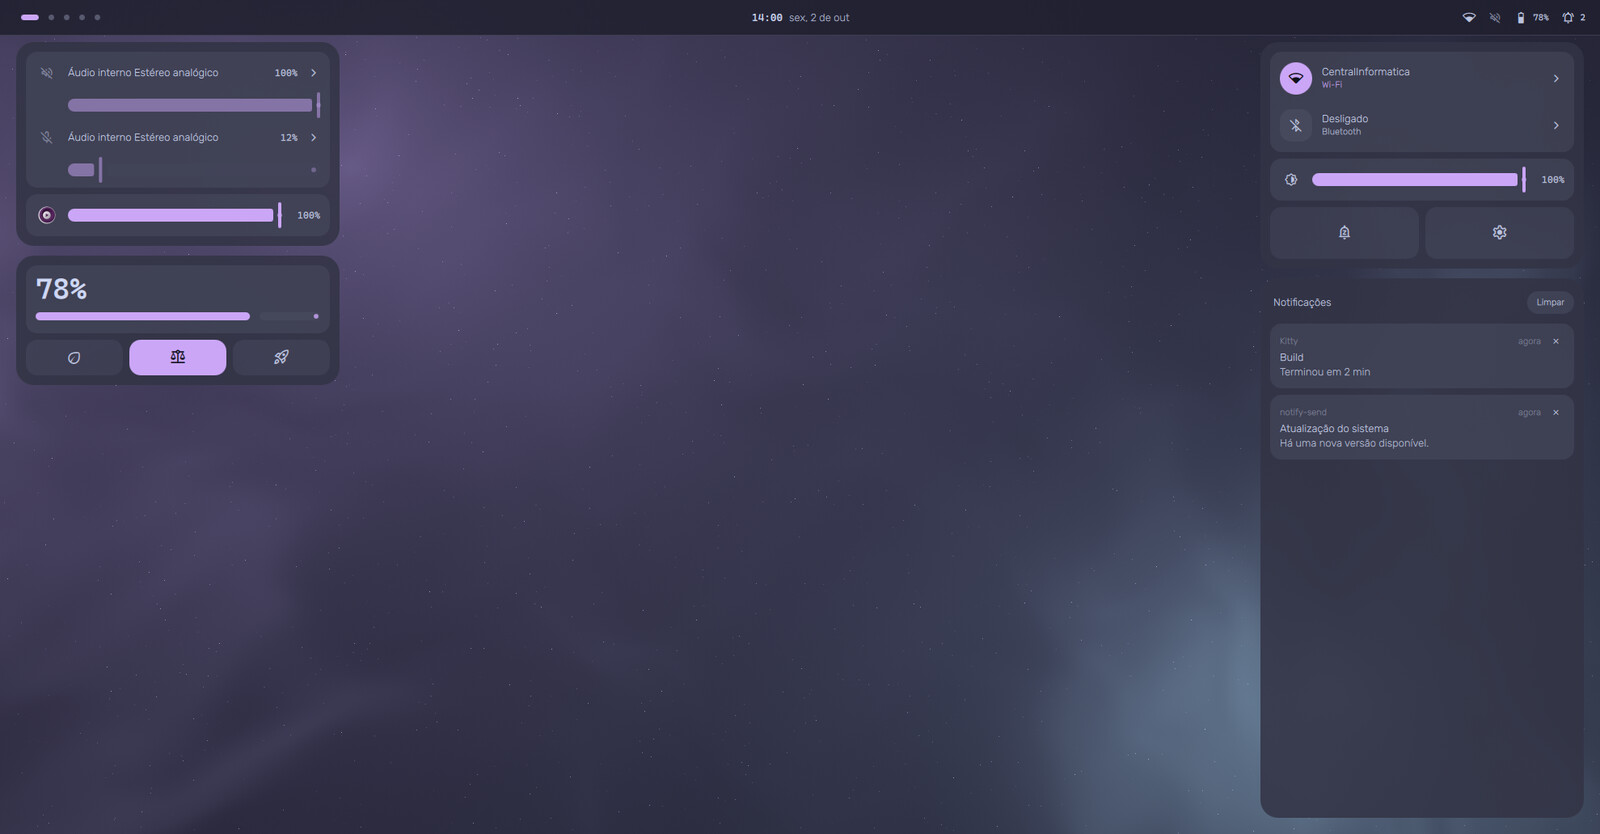
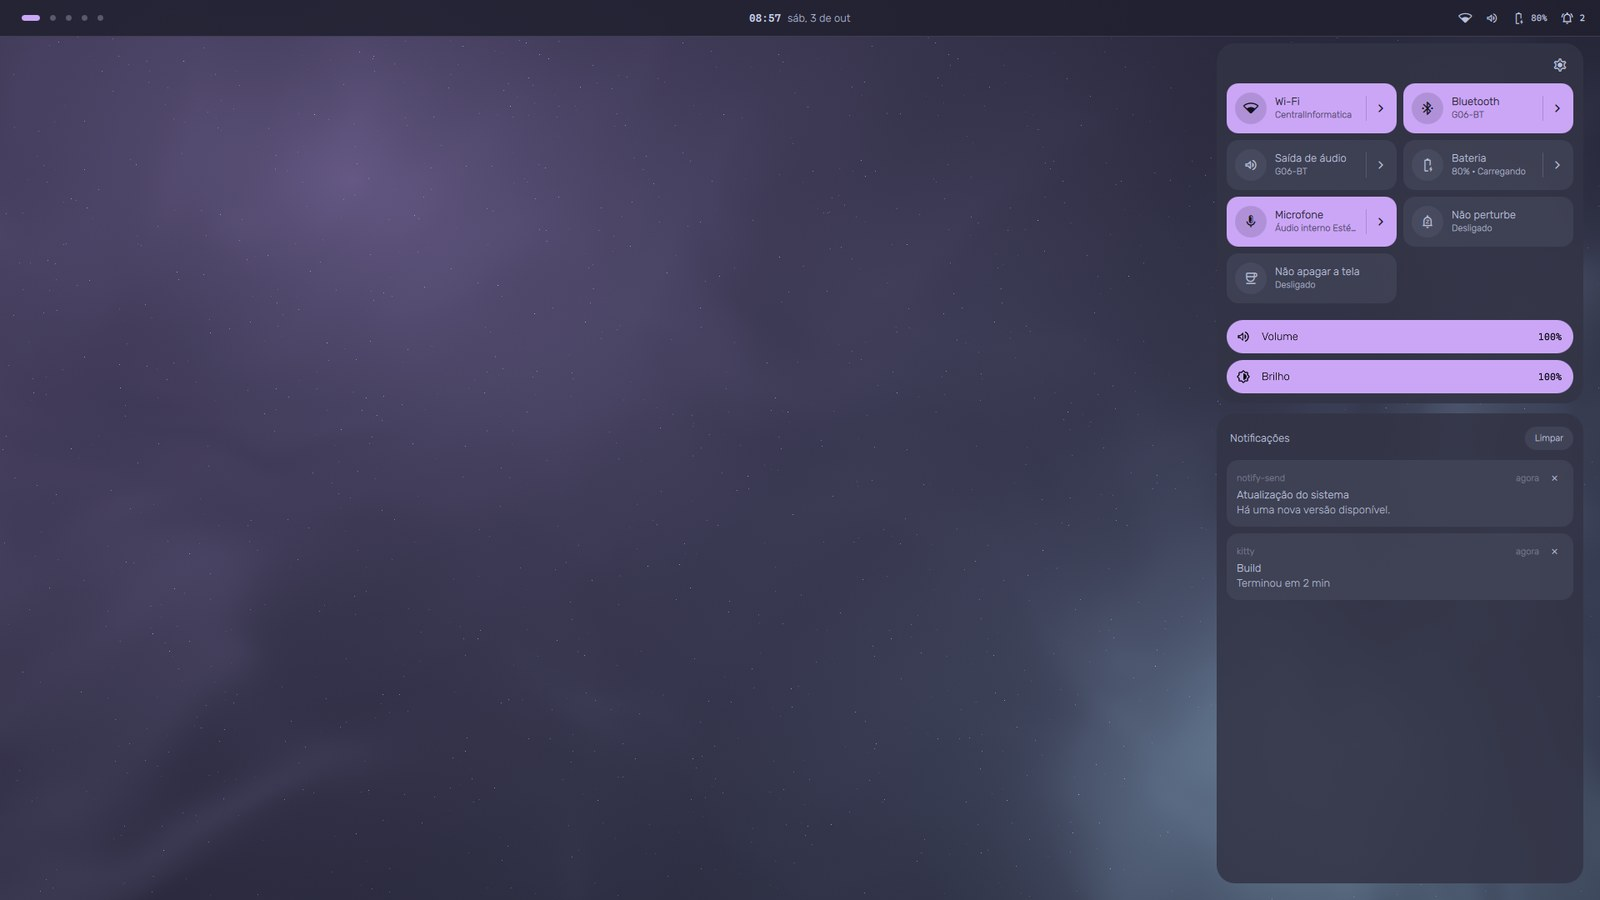
Central: captura, README, Proposta e Pendências com os dois painéis

diff --git a/README.md b/README.md
@@ -12,7 +12,7 @@ Barra, painel superior, central, launcher, notificações, tela de bloqueio e um
 - **Botões e teclas mapeáveis**: os botões extras do mouse e as teclas extras do teclado (F13–F24, macro, mídia) podem abrir painéis, controlar a mídia, trocar de workspace, **enviar um atalho de teclado** para a janela ou rodar um comando.
 - **Remapeamento real de teclas**, em qualquer programa e inclusive para modificadores (Caps Lock → Esc, Alt Gr → Super). O Lucerna gera o keymap, confere se ele compila e só então o entrega ao Hyprland.
 - **Monitores arrastando**: a disposição se monta num canvas com encaixe magnético. Cada monitor tem resolução, taxa, escala, rotação, espelhamento, VRR e 10 bits. Aplicar pede confirmação em todas as telas e, sem resposta em 15 s, volta ao anterior.
-- **Central em quatro painéis**: som (com o volume de cada app), energia, controles (Wi-Fi e Bluetooth num card, brilho e botões) e notificações, flutuando sobre a área de trabalho e abrindo juntos, cada um do seu lado.
+- **Central em dois painéis**: ações (tiles de Wi-Fi, Bluetooth, saída de áudio, bateria, microfone e os liga/desliga, com uma página por recurso, e os sliders de volume e brilho) e notificações, flutuando à direita sobre a área de trabalho e abrindo juntos.
 - **Os dez temas mais populares**: Catppuccin Mocha, Tokyo Night, Gruvbox Dark, Rosé Pine, Nord, Everforest, Kanagawa, Dracula, Matte Black e Decay Green, e as versões claras Catppuccin Latte e Rosé Pine Dawn, nas paletas oficiais, trocáveis ao vivo.
 - **Papel de parede animado e leve**: cada tema tem um efeito em shader que combina com ele (aurora, bokeh, brasas, luar, neve, vaga-lumes, ondas, névoa, chuva digital), nas cores do tema, a 30 ou 60 fps e em meia resolução. Ele pausa sozinho com tela cheia, tela bloqueada ou tela apagada. Cada tema pode trocar o seu por outro efeito, por uma imagem sua ou por um **vídeo ou GIF**. O vídeo é convertido uma vez para a resolução da tela, sem tarjas, quadros repetidos nem áudio, e toca decodificado pela GPU.
 - **Vidro de verdade**: o desfoque atrás dos painéis é do próprio Hyprland, e o tema ajusta também as bordas das janelas.
@@ -38,9 +38,9 @@ Visão geral, mídia com letra sincronizada, desempenho e clima. Desce de dentro
 
 ### Central
 
-Som e energia à esquerda, controles e notificações à direita, abertos juntos sobre a área de trabalho (`Super+C`). O ícone da barra escolhe o que já vem aberto: o de rede abre o card de controles na lista de redes.
+Ações em cima e notificações embaixo, na direita, abertos juntos sobre a área de trabalho (`Super+C`). Os tiles ligam e desligam no corpo e abrem a página do recurso na setinha. O ícone da barra escolhe o que já vem aberto: o de rede abre a página do Wi-Fi; o de som, a da saída de áudio; o de bateria, a da bateria.
 
-![Central: som, energia, controles e notificações](docs/screenshots/central.jpg)
+![Central: ações e notificações](docs/screenshots/central.jpg)
 
 ### Launcher, temas e barra
 
@@ -96,7 +96,7 @@ Três estilos, escolhidos em Configurações → Launcher. O **completo** tem bu
 | --- | --- |
 | **Barra** | Workspaces, hora e data, rede, som, bateria e notificações. Tem quatro estilos e pode ficar fixa ou esconder sozinha. Na área de trabalho vazia fica sempre à mostra, e aparece por um instante ao trocar de workspace. |
 | **Painel superior** | Visão geral (perfil, relógio, calendário, clima, recursos e mídia), mídia com letra sincronizada (LRCLIB) e pulso do áudio na capa, desempenho (CPU, GPU, memória, disco e rede) e clima (Open-Meteo). Abas reordenáveis e opção de abrir ao parar o mouse na hora. |
-| **Central** | Quatro painéis flutuantes que abrem juntos (`Super+C`, ou pelos ícones da barra): som (saída e entrada com troca de dispositivo e o volume de cada app com áudio aberto), energia (bateria, perfil de energia e a bateria dos dispositivos Bluetooth), controles (Wi-Fi e Bluetooth num card que vira a lista de redes, com senha, ou de dispositivos, para parear; o brilho da tela em foco; luz noturna, não perturbe, não apagar a tela e configurações) e notificações. Com porcentagem em cada volume, no brilho e na bateria. |
+| **Central** | Dois painéis flutuantes na direita que abrem juntos (`Super+C`, ou pelos ícones da barra): ações e notificações. As ações são tiles em duas colunas (Wi-Fi, Bluetooth, saída de áudio, bateria, microfone, luz noturna, não perturbe e não apagar a tela; cheios quando ligados), com uma página por recurso: a lista de redes, com senha; os dispositivos Bluetooth, para parear; as saídas e o volume de cada app com áudio aberto; o microfone e as entradas; a bateria, o perfil de energia e a bateria dos dispositivos Bluetooth. Embaixo, os sliders largos de volume e de brilho da tela em foco, com a porcentagem; a engrenagem abre as configurações. |
 | **Notificações** | Popups com ações, pausa no mouse e prazo ajustável, não perturbe e a lista na central. |
 | **Launcher** | Três estilos: compacto (busca e lista), completo (categorias de aplicativos, arquivos, documentos, imagens, músicas, vídeos e web, com favoritos, grade e detalhes: ações do app, descrição, versão e desenvolvedor) e tela cheia (gaveta de apps por categoria). Os apps mais abertos vêm primeiro, com os favoritos na frente. Em todos os estilos: clique direito num item para as opções, `Ctrl+F` fixa ou tira dos favoritos e `Ctrl+H` oculta; no compacto e na tela cheia, `/texto` busca arquivos e `?texto` pesquisa na web. A busca de arquivos usa o `fd` quando há, e, sem busca, mostra os recentes. |
 | **Área de transferência** | Histórico num painel próprio (`Super+V`): textos e imagens, busca, filtro, fixar e apagar. Escolher copia e cola na janela em foco (Ctrl+Shift+V nos terminais). Senhas marcadas pelos gerenciadores ficam de fora. |
@@ -105,8 +105,8 @@ Três estilos, escolhidos em Configurações → Launcher. O **completo** tem bu
 | **Tela de bloqueio** | Relógio e senha (PAM). |
 | **Energia** | Menu (bloquear, suspender, sair, reiniciar, desligar). Avisos de bateria baixa e crítica, ação no nível crítico com prazo para cancelar, troca de perfil na tomada e modo leve na bateria. |
 | **OSD** | Volume e brilho. |
-| **Ociosidade** | Escurece, desliga a tela, bloqueia e suspende depois de um tempo sem uso, com tempos próprios na tomada e na bateria, sem precisar do `hypridle`. Segura com mídia tocando, com app em tela cheia e com "Não apagar a tela" (nos botões da central, para apresentações). |
-| **Luz noturna** | Tela mais quente à noite, do pôr ao nascer do sol (pela cidade do clima, calculado sem rede), num horário fixo ou sempre, entrando e saindo aos poucos. Nos botões da central, liga ou desliga até a próxima virada. Usa o `hyprsunset`, que muda a cor no hardware, sem custo para a GPU. |
+| **Ociosidade** | Escurece, desliga a tela, bloqueia e suspende depois de um tempo sem uso, com tempos próprios na tomada e na bateria, sem precisar do `hypridle`. Segura com mídia tocando, com app em tela cheia e com "Não apagar a tela" (nos tiles da central, para apresentações). |
+| **Luz noturna** | Tela mais quente à noite, do pôr ao nascer do sol (pela cidade do clima, calculado sem rede), num horário fixo ou sempre, entrando e saindo aos poucos. Nos tiles da central, liga ou desliga até a próxima virada. Usa o `hyprsunset`, que muda a cor no hardware, sem custo para a GPU. |
 | **Papel de parede** | Imagem com transição na troca e efeito animado por cima (shader, a 30 ou 60 fps, no ritmo da tela, e em meia resolução). Pausa com app em tela cheia, tela bloqueada ou tela apagada, e opcionalmente com qualquer janela aberta; no automático, fica parado na bateria. Modo e origem por monitor. |
 | **Temas** | Doze prontos, nas paletas oficiais: Catppuccin Mocha (padrão), Tokyo Night, Gruvbox Dark, Rosé Pine, Nord, Everforest, Kanagawa, Dracula, Matte Black e Decay Green, e os claros Catppuccin Latte e Rosé Pine Dawn. Cada um vem com papel estático, efeito animado, fonte própria e bordas do Hyprland. Trocam ao vivo pelo seletor em carrossel (`Super+T`): as setas aplicam o tema do card central depois de uma breve espera, Enter mantém e Esc ou o clique fora desfazem. |
 
@@ -200,7 +200,7 @@ Tudo pode ser chamado de fora com `qs -c lucerna ipc call <alvo> <função> [arg
 | --- | --- |
 | `panels` | `open <nome>`, `toggle <nome>`, `dismiss <nome>` (fecha só esse), `close` (fecha todos), `get`. Nomes: `launcher`, `dashboard`, `central`, `settings`, `themes`, `power`, `clipboard`, `capture`, `overview` |
 | `dashboard` | `open <aba>` (`overview`, `media`, `performance`, `weather`), `toggle` |
-| `central` | `open <entrada>`, `toggle <entrada>` (`rede`, `bluetooth`, `som`, `notificacoes`, `energia`; `""` = o estado inicial), `close` |
+| `central` | `open <entrada>`, `toggle <entrada>` (`rede`, `bluetooth`, `som`, `energia`, `microfone` abrem a página do recurso; `notificacoes` e `""`, o estado inicial), `close` |
 | `settings` | `open <tópico>` (`appearance`, `wallpaper`, `displays`, `idle`, `nightlight`, `launcher`, `clipboard`, `capture`, `mouse`, `keyboard`, `glass`, `notifications`, `panels`, `bar`, `dashboard`, `power`, `shortcuts`, `about`) |
 | `notifications` | `clear`, `toggleDnd`, `count` |
 | `launcher` | `open <categoria> <busca>` (`apps`, `files`, `documents`, `images`, `music`, `videos`, `web`; a busca pode ser `""`), `toggle` |

diff --git a/Lucerna — Proposta.md b/Lucerna — Proposta.md
@@ -55,12 +55,12 @@ O Lucerna cresce por módulos, começando pelo essencial.
 | --- | --- |
 | Barra | Quatro estilos, escolhidos nas configurações: **faixa** (padrão, de ponta a ponta), **ilha** (só a hora; cresce para os lados com o mouse em cima), **pílula** (flutuante, tudo à mostra) e **três ilhas** (workspaces, hora e ações nos cantos). Workspaces, hora e data (abre o painel superior), rede, volume, bateria e notificações (abrem a central). Fixa por padrão, reservando o espaço; com auto-ocultar, aparece ao encostar o mouse no topo, ao trocar de workspace e na área de trabalho vazia (por monitor) |
 | Painel superior | Desce do topo: visão geral (usuário com atalhos para configurações e energia, relógio, calendário, recursos, mídia), mídia (capa com pulso do áudio, controles, letra sincronizada), desempenho (CPU, GPU, memória, disco, rede) e clima. Abas reordenáveis; pode ficar aberto por cima das configurações |
-| Central | Quatro painéis flutuantes que abrem juntos sobre a área de trabalho, sem escurecer: som (saída e entrada, com troca de dispositivo, e o volume de cada app com áudio aberto), energia (bateria, perfil de energia e a bateria dos dispositivos Bluetooth), controles (Wi-Fi e Bluetooth num card que vira a lista de redes ou de dispositivos, o brilho da tela em foco e os botões de luz noturna, não perturbe, não apagar a tela e configurações) e notificações. O ícone da barra escolhe o que já vem aberto |
+| Central | Dois painéis flutuantes na direita que abrem juntos sobre a área de trabalho, sem escurecer: ações em cima e notificações embaixo. As ações são tiles em duas colunas (Wi-Fi, Bluetooth, saída de áudio, bateria, microfone, luz noturna, não perturbe e não apagar a tela; o corpo liga e desliga, a setinha abre a página do recurso: redes, dispositivos, saídas e o volume de cada app com áudio aberto, entradas, bateria e perfil de energia) e os sliders de volume e brilho; a engrenagem abre as configurações. O ícone da barra escolhe a página que já vem aberta |
 | Launcher | Três estilos: **compacto** (padrão; busca e lista curta de apps e ações), **completo** (categorias de aplicativos, arquivos por tipo e web, favoritos, grade e detalhes do app: ações do `.desktop`, descrição, versão e desenvolvedor) e **tela cheia** (gaveta de apps por categoria). Apps ordenados por uso |
 | Configurações | Tópicos à esquerda e opções à direita: aparência, papel de parede, monitores, tela e ociosidade, luz noturna, mouse, teclado, área de transferência, captura de tela, transparência e desfoque, notificações, painéis, launcher, barra, painel superior, energia e bateria, atalhos e sobre |
 | Monitores | Disposição arrastando num canvas (encaixe nas bordas, sempre num bloco só) e, por monitor, resolução, taxa, escala, rotação, espelhamento, VRR e 10 bits. Aplicar pede confirmação em todas as telas e volta sozinho em 15 s. Um arranjo salvo por conjunto de monitores, reaplicado ao conectar. Opcionalmente gravado em `~/.config/hypr/lucerna-monitors.lua`, que o `hyprland.lua` inclui, para valer desde o login |
 | Mouse e teclado | Velocidade, aceleração, rolagem, touchpad e velocidade por mouse; layouts, repetição e opções do xkb. Botões extras do mouse e teclas extras mapeados para ações (painéis, mídia, janelas, enviar atalho, rodar comando) e teclas remapeadas de verdade (keymap gerado e validado). Só o que muda vai por cima do `hyprland.lua` |
-| Luz noturna | Temperatura de cor por horário: do pôr ao nascer do sol (calculado localmente, pela cidade do clima), fixo ou sempre, com rampa de 30 min e "até a próxima virada" pelos botões da central. Aplicada pelo `hyprsunset` (CTM do Hyprland) |
+| Luz noturna | Temperatura de cor por horário: do pôr ao nascer do sol (calculado localmente, pela cidade do clima), fixo ou sempre, com rampa de 30 min e "até a próxima virada" pelos tiles da central. Aplicada pelo `hyprsunset` (CTM do Hyprland) |
 | Papel de parede | Por tema: o próprio (imagem e efeito animado em shader), só a imagem, qualquer um dos dez efeitos (nas cores do tema), uma imagem ou um vídeo/GIF do usuário. Vídeos convertidos uma vez por tela para tocar pela GPU. 30 ou 60 fps, no ritmo da tela; pausa com tela cheia, bloqueio e tela apagada |
 | Notificações | Servidor de notificações próprio; popups e a lista na central |
 | Área de transferência | Histórico próprio (texto e imagem, pelo `wl-paste --watch`), num painel à parte: busca, filtro, fixar, apagar, colar direto; persistente e limitado. Ignora senhas marcadas pelos gerenciadores |
@@ -177,7 +177,7 @@ Scripts e outros programas falam com o shell por `IpcHandler`. Os atalhos do she
 
 ```sh
 qs -c lucerna ipc call panels toggle launcher   # launcher, dashboard, settings, central, themes, power, clipboard, capture, overview (dismiss fecha só um)
-qs -c lucerna ipc call central open rede        # bluetooth, som, notificacoes, energia ("" = o estado inicial); toggle, close
+qs -c lucerna ipc call central open rede        # bluetooth, som, energia, microfone, notificacoes ("" = o estado inicial); toggle, close
 qs -c lucerna ipc call dashboard open weather   # overview, media, performance, weather
 qs -c lucerna ipc call session lock
 qs -c lucerna ipc call brightness up            # up, down, set <0-100>

diff --git a/Lucerna — Pendências.md b/Lucerna — Pendências.md
@@ -7,7 +7,7 @@ O que falta fazer, na ordem em que vamos seguir. Cada item vira um PR; ao termin
 1. [x] **Proposta atualizada.** A tabela "Escopo" de `Lucerna — Proposta.md` ainda diz que barra, painel e energia estão por fazer e descreve o launcher como só "abrir aplicativos". Faltam monitores, mouse, teclado, papel de parede animado e vídeo.
 2. [x] **Launcher: o que hoje só o estilo completo tem.** Fixar nos favoritos e ocultar um app (por clique direito ou atalho) no compacto e na tela cheia. Busca em arquivos e na web também fora do estilo completo (por prefixo ou atalho).
 3. [x] **Ociosidade e tela.** Desligar a tela e bloquear depois de X minutos, suspender depois de Y, sem depender do `hypridle` (o Quickshell tem `IdleMonitor`). Com exceções: mídia tocando, app em tela cheia e, no modo apresentação, não apagar.
-4. [x] **Luz noturna.** Temperatura de cor por horário (fixo ou pôr e nascer do sol), nos botões da central e nas configurações.
+4. [x] **Luz noturna.** Temperatura de cor por horário (fixo ou pôr e nascer do sol), nos tiles da central e nas configurações.
 5. [x] **Temas claros.** Catppuccin Latte e Rosé Pine Dawn, as versões claras oficiais.
 6. [x] **Atalhos editáveis.** A página Atalhos das configurações só informa; os atalhos do shell continuam no `hyprland.lua`. Passar a editar ali, reaproveitando os binds da aba Teclado.
 7. [x] **Monitores no login.** O arranjo salvo só vale quando o Lucerna inicia, e no login o `hyprland.lua` aparece antes. Opção de gravar o arranjo num arquivo que o `hyprland.lua` inclui.
@@ -15,7 +15,7 @@ O que falta fazer, na ordem em que vamos seguir. Cada item vira um PR; ao termin
 9. [x] **Captura de tela e gravação:** área, janela ou tela, com notificação e atalho.
 10. [x] **Visão geral dos workspaces**, com as janelas em miniatura.
 11. [x] **Brilho de monitores externos** por DDC/CI.
-12. [x] **Central.** Quatro painéis flutuantes no lugar da barra lateral: som (com o volume de cada app), energia, controles e notificações.
+12. [x] **Central.** Dois painéis flutuantes na direita, no lugar da barra lateral: ações (tiles com uma página por recurso, inclusive o volume de cada app, e os sliders de volume e brilho) e notificações.
 13. [ ] **Dock**, com spec próprio.
 14. [ ] **Instalação e distribuição:** script de instalação (link, trecho do `hyprland.lua`, atalhos padrão) e pacote no AUR. A verificação no CI já está feita: quatro checks obrigatórios (`ci/`, `dev/ci.sh`).
 15. [ ] **Plugins próprios**, na ordem de `Lucerna — Plugins Próprios.md`: `lucerna-sysinfo`, depois `lucerna-spectrum`, depois os demais.
@@ -27,8 +27,8 @@ O que falta fazer, na ordem em que vamos seguir. Cada item vira um PR; ao termin
 - [ ] Fumaça com o Hyprland de verdade, quando houver runner com GPU: hoje ela roda no `sway` headless, e o que depende do Hyprland (workspaces, visão geral com janelas, `hyprctl`) não é exercitado.
 - [ ] `CHANGELOG`, junto com as releases.
 - [ ] Central, Wi-Fi: o `WifiState.networks` refaz a lista inteira a cada mudança, então as linhas são recriadas e a senha que estava sendo digitada se perde quando a lista de redes se atualiza. Manter as linhas pela rede (ou guardar a senha fora do delegate).
-- [ ] Central, energia: a sonda do power-profiles-daemon (`busctl`) roda só na partida do shell. Se o daemon subir depois, os botões de perfil não aparecem até reiniciar o shell. Repetir a sonda (ao abrir a central ou ao mudar o `PowerProfiles`).
-- [ ] Central, som: o volume por app mostra qualquer app com áudio aberto, inclusive pausado, porque o `PwNode` do Quickshell 0.3 não diz se o stream está tocando. Filtrar quando houver esse estado.
+- [ ] Central, bateria: a sonda do power-profiles-daemon (`busctl`) roda só na partida do shell. Se o daemon subir depois, os botões de perfil (e o tile "Energia" de um desktop) não aparecem até reiniciar o shell. Repetir a sonda (ao abrir a central ou ao mudar o `PowerProfiles`).
+- [ ] Central, saída de áudio: o volume por app mostra qualquer app com áudio aberto, inclusive pausado, porque o `PwNode` do Quickshell 0.3 não diz se o stream está tocando. Filtrar quando houver esse estado.
 
 ## Verificar com hardware e entrada reais
 
@@ -45,7 +45,7 @@ No ambiente de teste não dá para simular cliques, e o Hyprland ignora teclado 
 - [ ] Visão geral: arrastar uma janela para outro workspace (no container não dá para simular o arrasto) e vários monitores.
 - [ ] Brilho: as teclas ajustando o monitor em foco (no container o foco é a janela aninhada, não o HDMI).
 - [ ] Launcher: navegação pelo teclado nos três estilos, `Ctrl+1…9` nas ações do app e o "Mais opções".
-- [ ] Central: os ícones da barra abrindo na entrada certa e fechando no mesmo ícone, os volumes (saída, entrada e por app), a troca de dispositivo, conectar a uma rede com senha, parear, os botões de ícone e o "Limpar".
+- [ ] Central: os ícones da barra abrindo na página certa e fechando no mesmo ícone; os tiles (o corpo liga e desliga, a setinha abre a página), os sliders de volume e brilho e os volumes do microfone e de cada app; a troca de dispositivo, conectar a uma rede com senha, parear, os perfis de energia, a engrenagem e o "Limpar".
 
 ## Ambiente de teste
 
